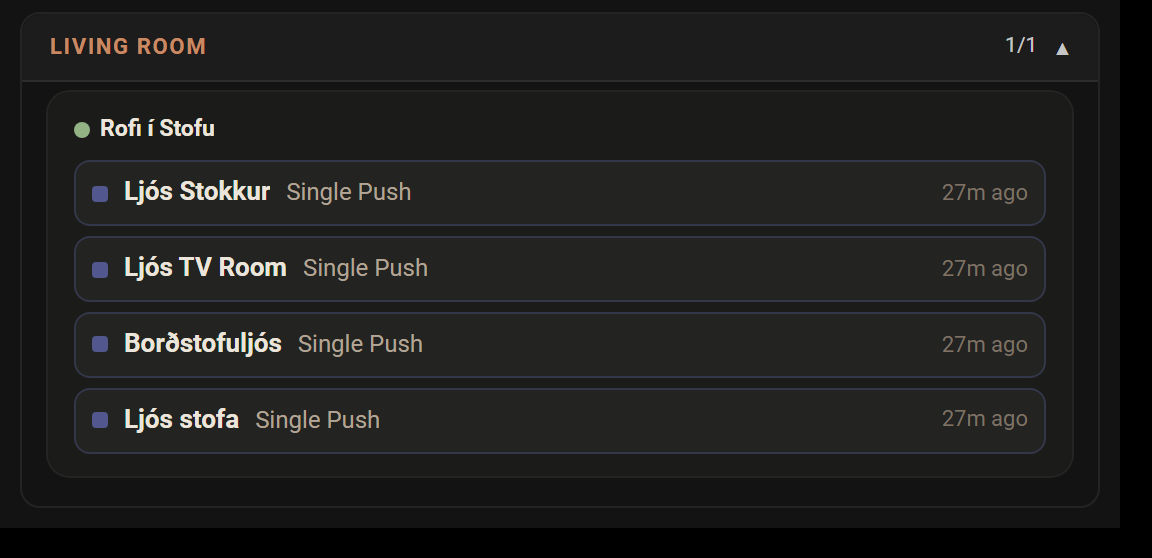
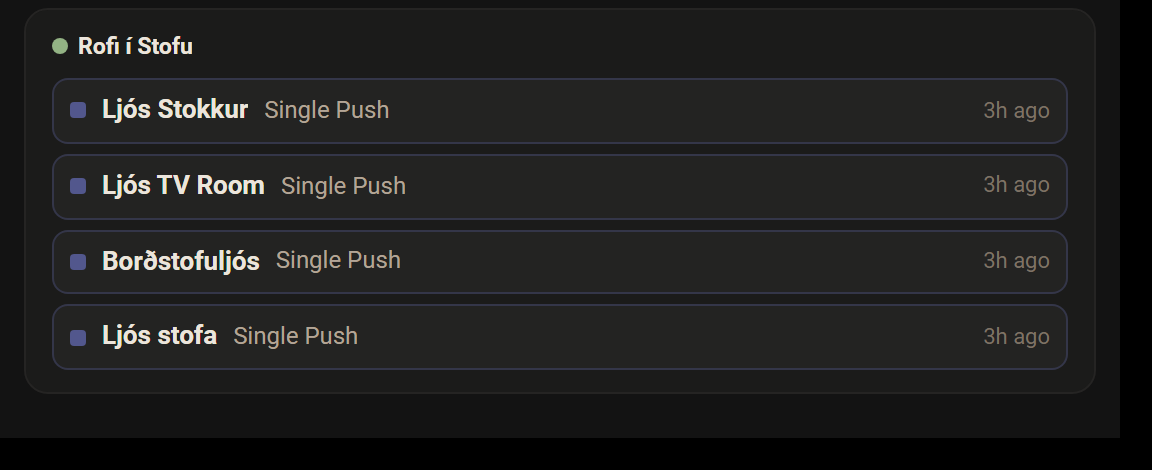
docs: reshoot the one-device and keypad screenshots, and fix a caption
Both views set a device whitelist, so both gained show_rooms: false and no
longer carry a room heading over their tiles. The one-device shot is now what
the feature actually promises: a single tile, nothing else. Its caption names
the third key that makes that possible.

The keypad caption also described the wrong thing. It talked about an input
wired to an output on its own device toggling with no configuration — true of a
relay with inputs, but not of the i4 in the picture, which is input-only and
has nothing bound, so its channels render as status rows rather than keys. The
caption now describes what is on screen and says what turns a row into a key.

diff --git a/README.md b/README.md
@@ -60,7 +60,7 @@ Real captures from a 61-device Shelly fleet, not mockups.
 |---|---|
 | ![One room](docs/images/screenshots/02-room.png) **One room.** The tile style follows the hardware — dimmers get sliders, the i4 gets a keypad, sensors get a sparkline. | ![Detail sheet](docs/images/screenshots/10-detail-sheet.jpeg) **Detail sheet.** Every entity, grouped by tier, plus firmware, IP, signal and uptime. |
 | ![Gauge variant](docs/images/screenshots/03-gauge.png) **Power monitor, gauge variant.** One arc per sensor class the device reports. | ![Sensor style](docs/images/screenshots/04-sensor-card.png) **Sensor style.** Big value, trend badge, and a graph per selected sensor. |
-| ![i3/i4 keypad](docs/images/screenshots/05-keypad.png) **The i3/i4 keypad.** An input wired to an output on its own device toggles it with no configuration. | ![Single device](docs/images/screenshots/06-single-device.png) **One device.** `devices:` plus `show_header: false` scales the card down to a single tile. |
+| ![i3/i4 keypad](docs/images/screenshots/05-keypad.png) **The i3/i4 keypad.** Every input is read for what it is — a button reports presses, a switch its position. Bind an action and a channel becomes a key. | ![Single device](docs/images/screenshots/06-single-device.png) **One device.** `devices:`, `show_header: false` and `show_rooms: false` scale the card down to a single tile. |
 | ![Warm Dusk theme](docs/images/screenshots/08-theme-warm-dusk.png) **Warm Dusk** — the default theme. | ![Midnight Purple theme](docs/images/screenshots/09-theme-midnight.png) **Midnight Purple.** Eight themes ship, plus Follow HA. |
 
 **Universal mode** — the same card, discovering every device in Home Assistant
